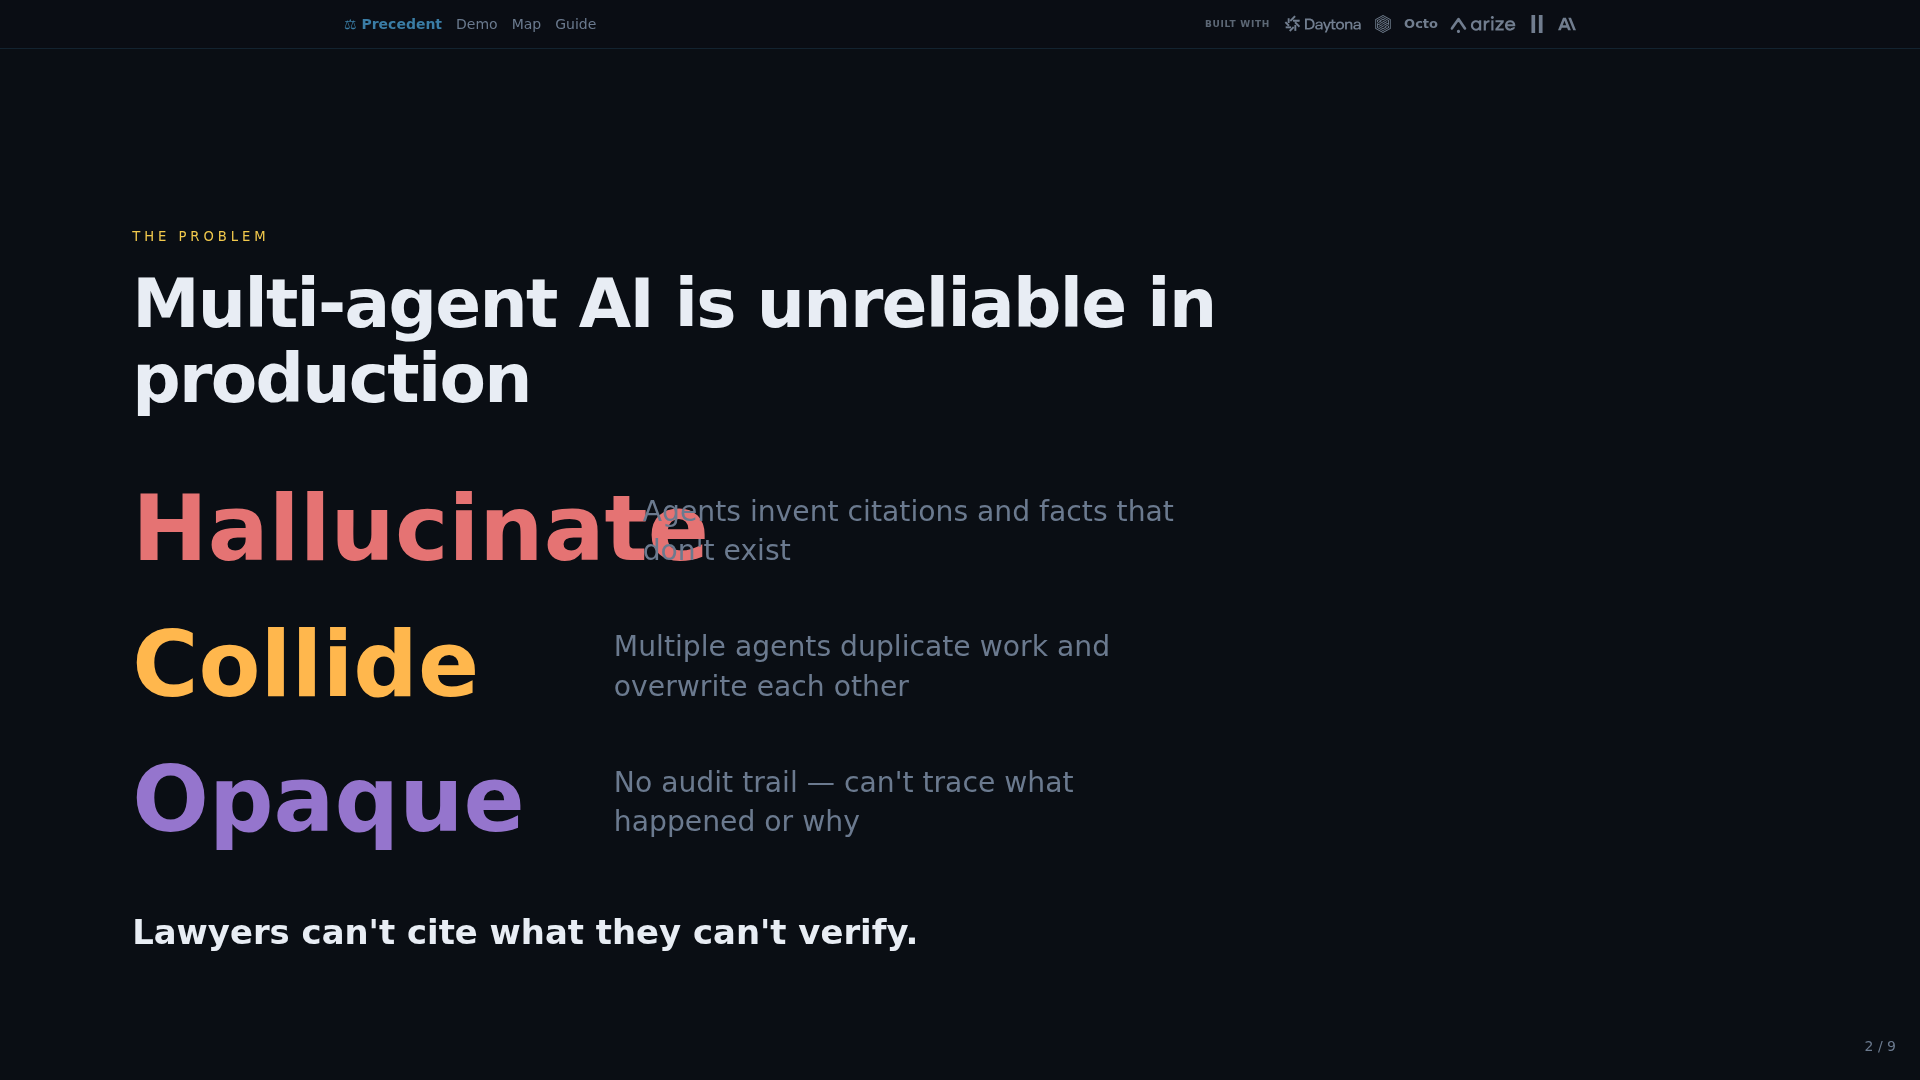
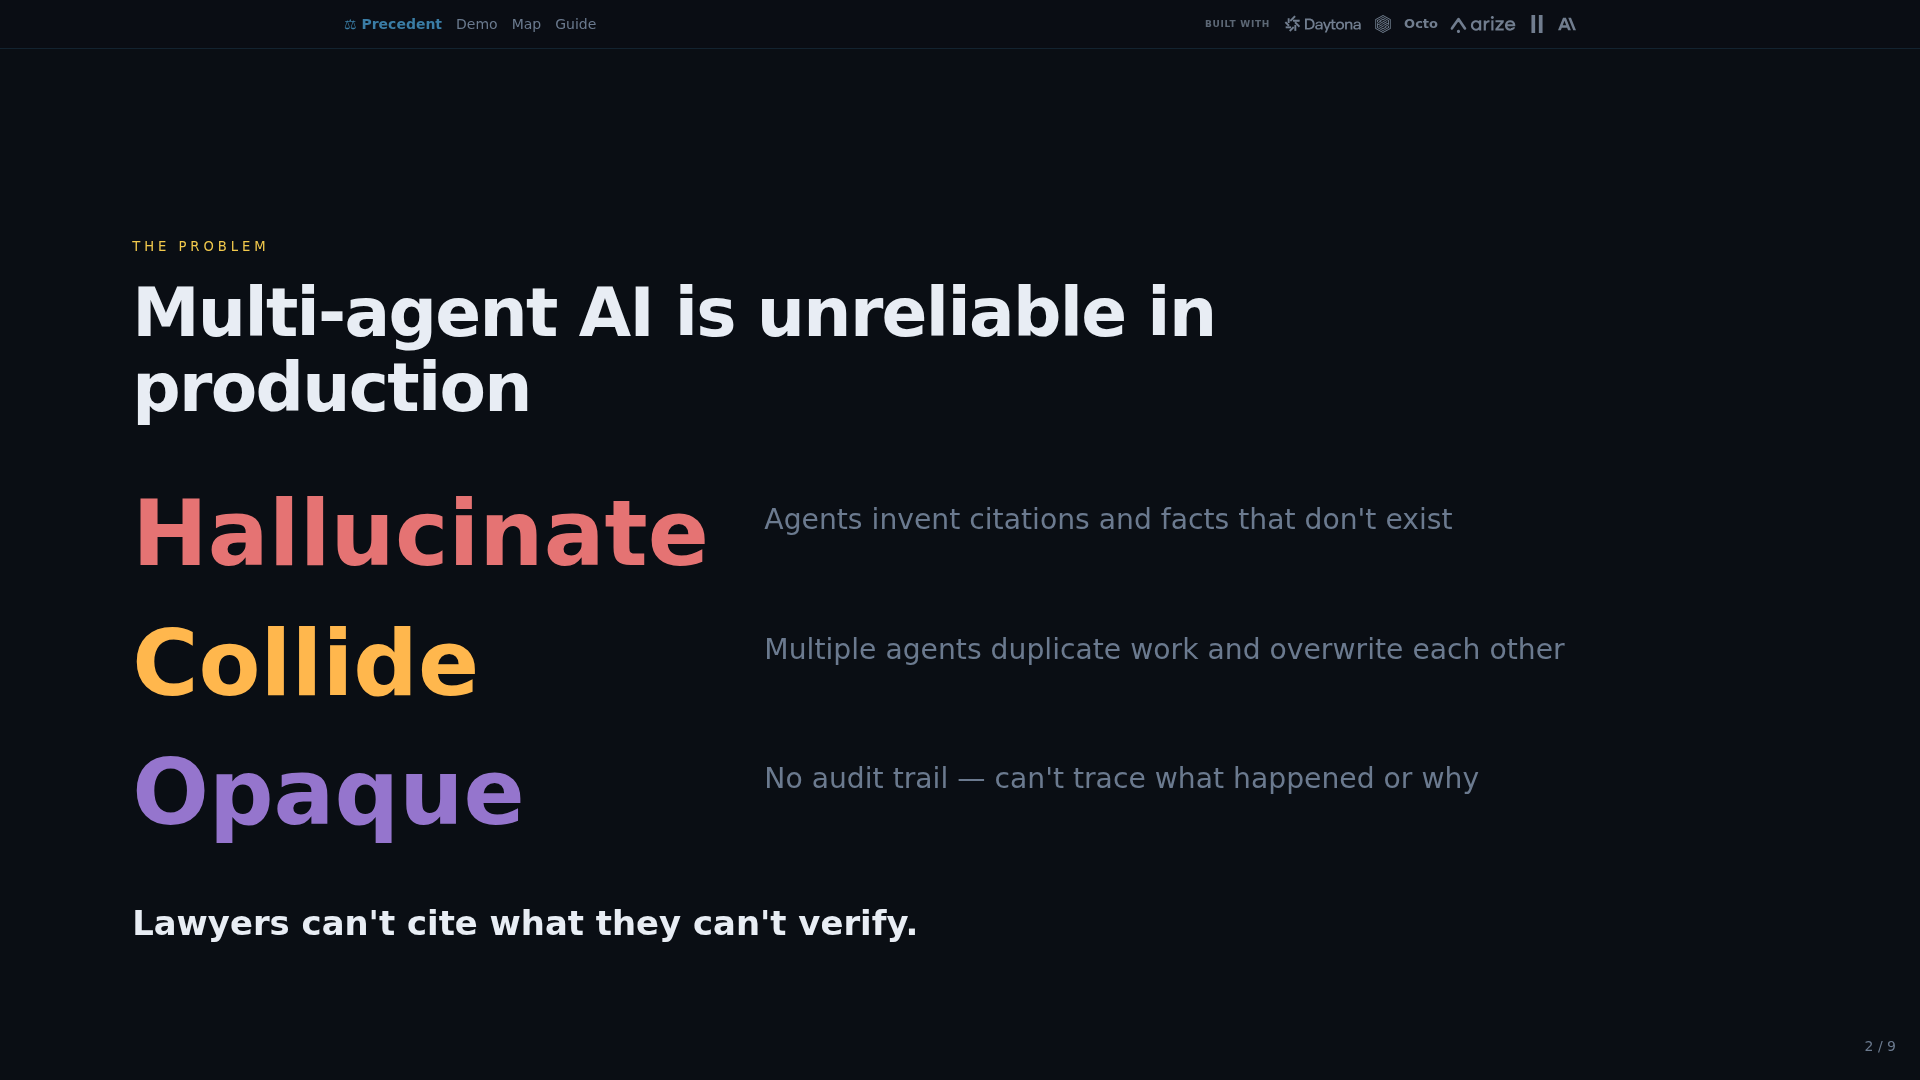
slides: fix big-word/description overlap on Problem and Trust slides; refresh shots

diff --git a/static/slides.html b/static/slides.html
@@ -125,19 +125,19 @@ html,body{height:100%;margin:0}
   <div class="text-sm uppercase tracking-[.3em] mb-6" style="color: var(--accent);">The Problem</div>
   <h1 class="text-7xl font-bold mb-16 tracking-tight" style="color: var(--ink); max-width: 1400px; line-height: 1.1;">Multi-agent AI is unreliable in production</h1>
   
-  <div class="space-y-8 max-w-6xl">
+  <div class="space-y-8" style="max-width:1700px">
     <div class="flex items-start gap-8">
-      <div class="text-8xl font-black" style="color: #E57373; min-width: 480px;">Hallucinate</div>
+      <div class="text-8xl font-black" style="color: #E57373; width:640px;flex-shrink:0;line-height:1.1;">Hallucinate</div>
       <div class="text-3xl pt-4" style="color: var(--muted); line-height: 1.4;">Agents invent citations and facts that don't exist</div>
     </div>
     
     <div class="flex items-start gap-8">
-      <div class="text-8xl font-black" style="color: #FFB74D; min-width: 480px;">Collide</div>
+      <div class="text-8xl font-black" style="color: #FFB74D; width:640px;flex-shrink:0;line-height:1.1;">Collide</div>
       <div class="text-3xl pt-4" style="color: var(--muted); line-height: 1.4;">Multiple agents duplicate work and overwrite each other</div>
     </div>
     
     <div class="flex items-start gap-8">
-      <div class="text-8xl font-black" style="color: #9575CD; min-width: 480px;">Opaque</div>
+      <div class="text-8xl font-black" style="color: #9575CD; width:640px;flex-shrink:0;line-height:1.1;">Opaque</div>
       <div class="text-3xl pt-4" style="color: var(--muted); line-height: 1.4;">No audit trail — can't trace what happened or why</div>
     </div>
   </div>
@@ -259,24 +259,24 @@ html,body{height:100%;margin:0}
   <div class="text-sm uppercase tracking-[.3em] mb-6" style="color: var(--accent);">Trust & Verification</div>
   <h1 class="text-7xl font-bold mb-16 tracking-tight" style="color: var(--ink); max-width: 1400px; line-height: 1.1;">Every reference is checked. Every limit is enforced.</h1>
   
-  <div class="space-y-10 max-w-6xl">
+  <div class="space-y-10" style="max-width:1700px">
     <div class="flex items-start gap-8">
-      <div class="text-7xl font-black" style="color: #4CAF50; min-width: 420px;">Safeguard</div>
+      <div class="text-7xl font-black" style="color: #4CAF50; width:560px;flex-shrink:0;line-height:1.1;">Safeguard</div>
       <div class="text-3xl pt-3" style="color: var(--muted); line-height: 1.4;">Checks references, not legal accuracy</div>
     </div>
     
     <div class="flex items-start gap-8">
-      <div class="text-7xl font-black" style="color: var(--primary); min-width: 420px;">Guardrails</div>
+      <div class="text-7xl font-black" style="color: var(--primary); width:560px;flex-shrink:0;line-height:1.1;">Guardrails</div>
       <div class="text-3xl pt-3" style="color: var(--muted); line-height: 1.4;">Rate limits, hourly caps, labeled fallbacks</div>
     </div>
     
     <div class="flex items-start gap-8">
-      <div class="text-7xl font-black" style="color: #FF4F8B; min-width: 420px;">Arize</div>
+      <div class="text-7xl font-black" style="color: #FF4F8B; width:560px;flex-shrink:0;line-height:1.1;">Arize</div>
       <div class="text-3xl pt-3" style="color: var(--muted); line-height: 1.4;">Groundedness, hallucination and citation-relevance evals on every trace</div>
     </div>
 
     <div class="flex items-start gap-8">
-      <div class="text-7xl font-black" style="color: var(--accent); min-width: 420px;">Honest</div>
+      <div class="text-7xl font-black" style="color: var(--accent); width:560px;flex-shrink:0;line-height:1.1;">Honest</div>
       <div class="text-3xl pt-3" style="color: var(--muted); line-height: 1.4;">Labels: "checks references, not legal accuracy" · "cached answer"</div>
     </div>
   </div>
